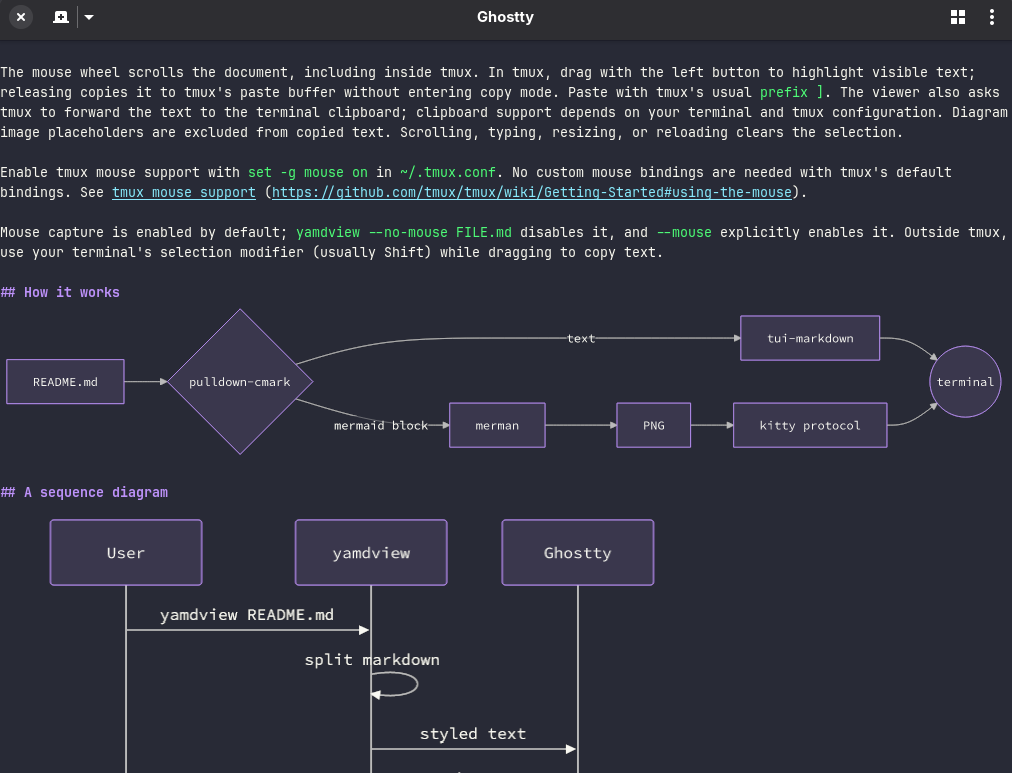
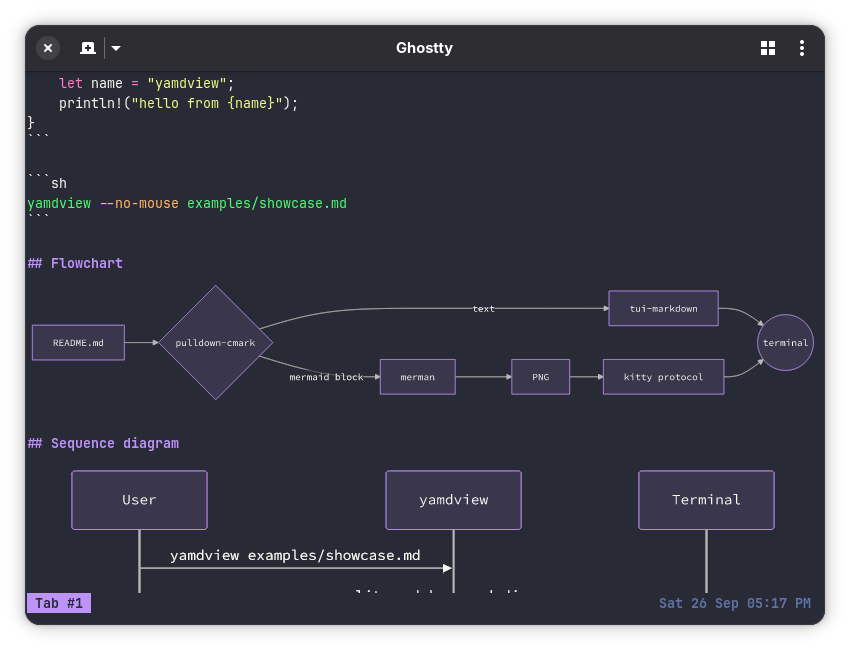
docs: README screenshot in window mode

diff --git a/README.md b/README.md
@@ -4,7 +4,7 @@
 
 A terminal markdown viewer that draws mermaid diagrams as images.
 
-![yamdview showing this README in Ghostty, with its mermaid diagrams drawn inline](docs/screenshot.png)
+![yamdview showing the showcase in Ghostty: a highlighted code block, then a flowchart and a sequence diagram drawn inline](docs/screenshot.png)
 
 It redraws whenever the file is saved, so it fits in a split next to your
 editor. Diagrams are rendered locally with
